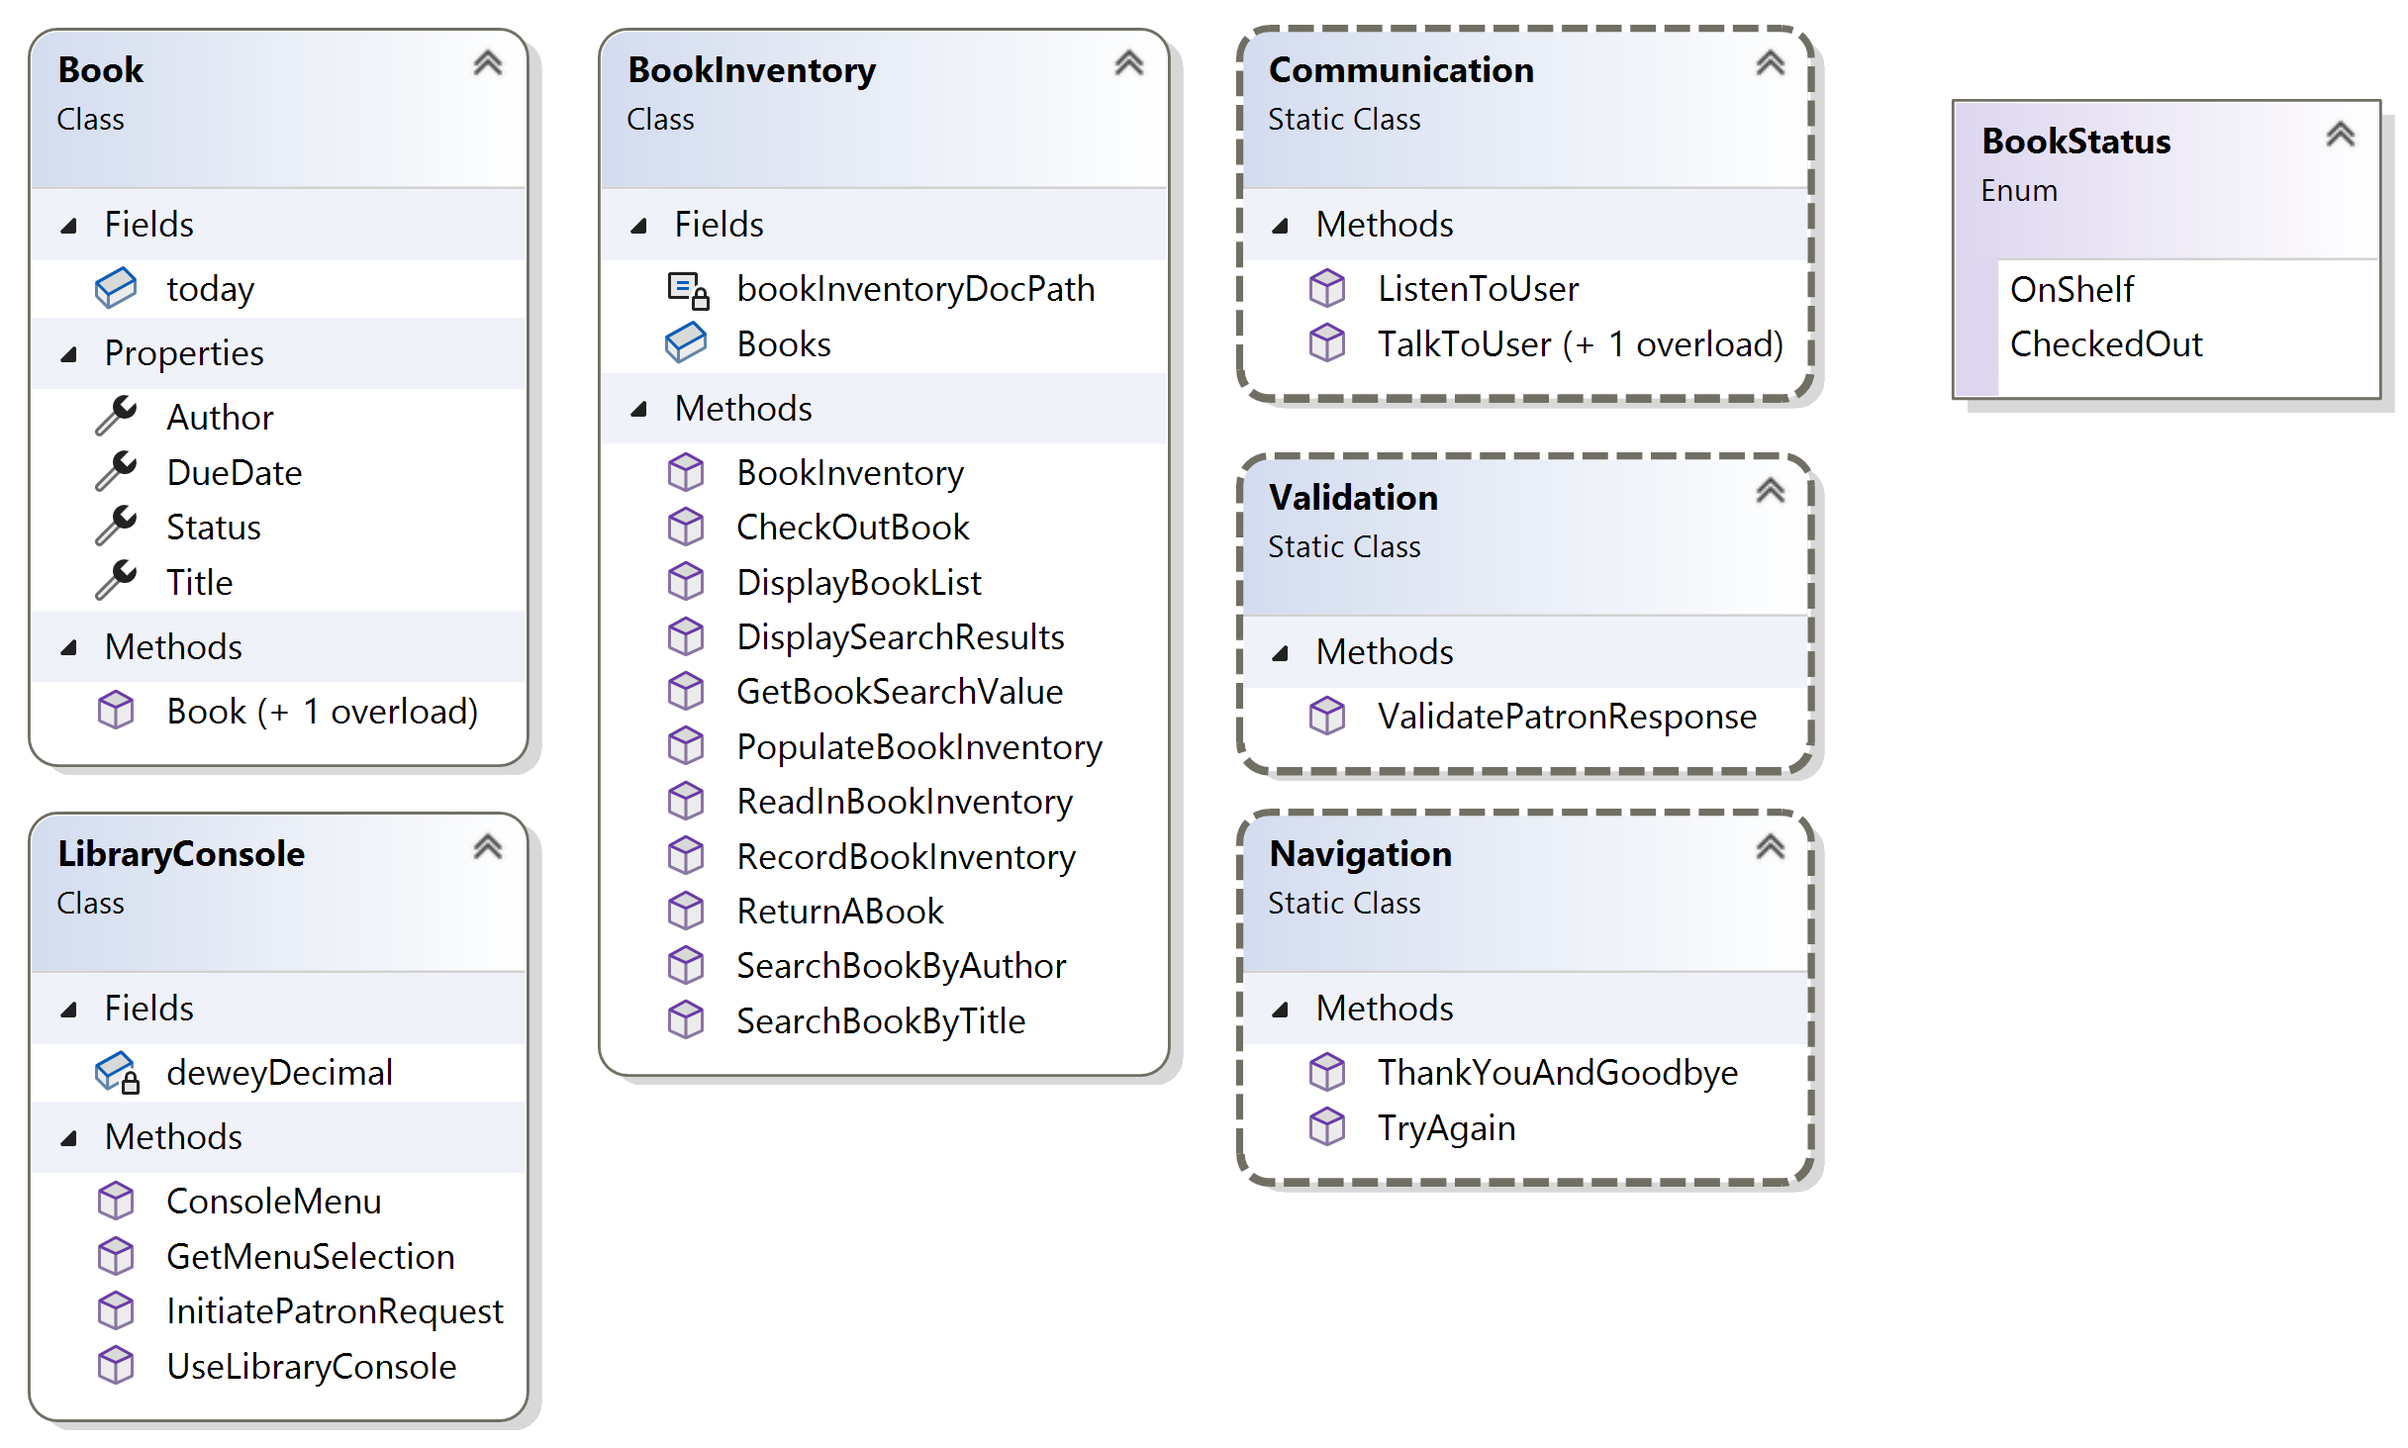
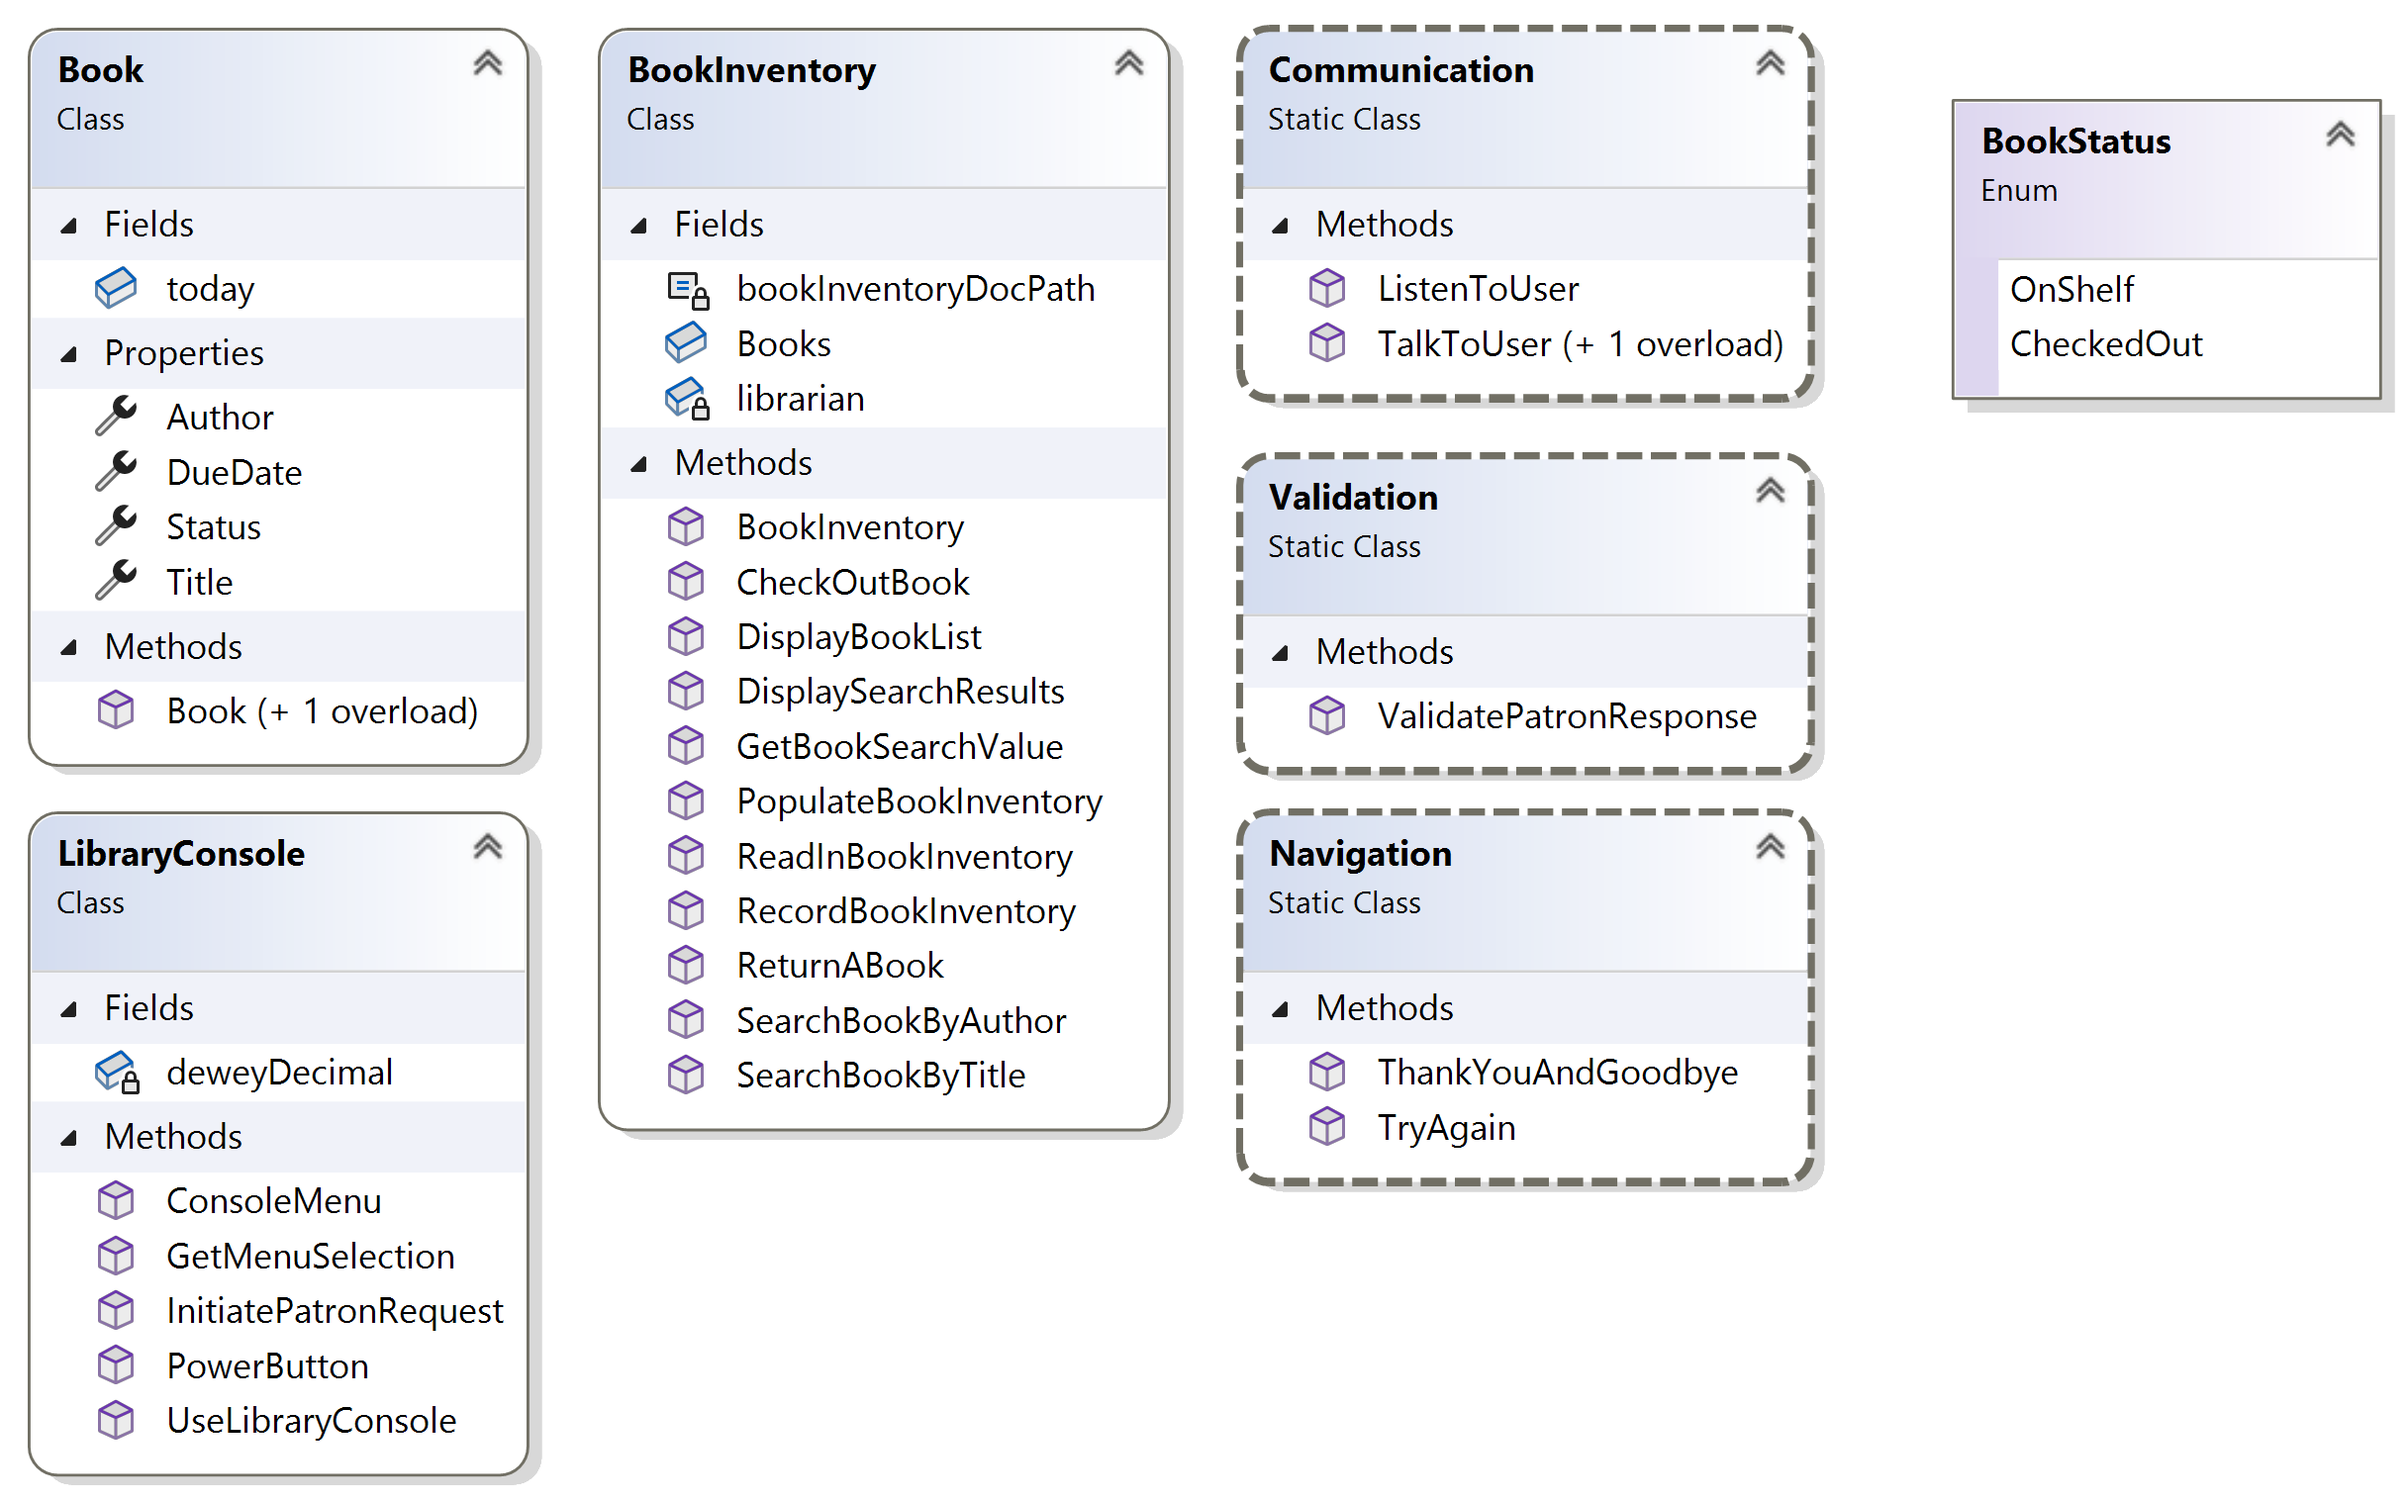
Added "PowerButton" method & updated diagram

diff --git a/LibraryTerminal/BookInventory.cs b/LibraryTerminal/BookInventory.cs
@@ -10,6 +10,7 @@ namespace LibraryTerminal
     public class BookInventory
     {
         public List<Book> Books = new List<Book>();
+        LibraryConsole librarian = new LibraryConsole();
 
         const string bookInventoryDocPath = @"c:\Temp\BookInventory.txt";
 
@@ -194,6 +195,7 @@ namespace LibraryTerminal
                         {
                             RecordBookInventory();
                             Navigation.ThankYouAndGoodbye();
+                            librarian.PowerButton("off");
                         }
                     }
                     book.DueDate = DateTime.Today.AddDays(14);
@@ -211,12 +213,14 @@ namespace LibraryTerminal
                     {
                         RecordBookInventory();
                         Navigation.ThankYouAndGoodbye();
+                        librarian.PowerButton("off");
                     }
                 }
             }
 
-            Communication.TalkToUser(
-                $"You have successfully checked out: {title}. Your Due date is {Books.Where(x => x.Title.Equals(title, StringComparison.InvariantCultureIgnoreCase)).Select(x => x.DueDate.ToShortDateString()).FirstOrDefault()}. Thank you for using Library Console.{Environment.NewLine}");
+            Communication.TalkToUser($"You have successfully checked out: {title}." +
+                          $"Your Due date is {Books.Where(x => x.Title.Equals(title, StringComparison.InvariantCultureIgnoreCase)).Select(x => x.DueDate.ToShortDateString()).FirstOrDefault()}." +
+                          $"Thank you for using Library Console.{Environment.NewLine}");
         }
 
         public void ReturnABook()
@@ -239,6 +243,7 @@ namespace LibraryTerminal
                         {
                             RecordBookInventory();
                             Navigation.ThankYouAndGoodbye();
+                            librarian.PowerButton("off");
                         }
                     }
 
@@ -259,6 +264,7 @@ namespace LibraryTerminal
                     {
                         RecordBookInventory();
                         Navigation.ThankYouAndGoodbye();
+                        librarian.PowerButton("off");
                     }
                 }
             }

diff --git a/LibraryTerminal/LibraryConsole.cs b/LibraryTerminal/LibraryConsole.cs
@@ -14,6 +14,7 @@ namespace LibraryTerminal
         {
             string consoleResponse = "";
             bool viewConsoleMenu = true;
+            PowerButton("on");
             deweyDecimal.DisplayBookList();
             while (viewConsoleMenu)
             {
@@ -100,8 +101,19 @@ namespace LibraryTerminal
                 case "x":
                     deweyDecimal.RecordBookInventory();
                     Navigation.ThankYouAndGoodbye();
+                    PowerButton("Off");
                     break;
             }
+        }
+
+        public void PowerButton(string onOrOff)
+        {
+            if (onOrOff == "on")
+            {
+                Communication.TalkToUser("Initializing...");
+                return;
+            }
+            Communication.TalkToUser("Shutting down...");
         }
     }
 }

diff --git a/LibraryTerminal/Program.cs b/LibraryTerminal/Program.cs
@@ -7,7 +7,6 @@ public class Program
     {
         LibraryConsole libraryVisit = new LibraryConsole();
         Console.WriteLine();
-        Console.WriteLine("Library Console says, \"Initializing...\"");
         Console.WriteLine();
         libraryVisit.UseLibraryConsole();
         return;
